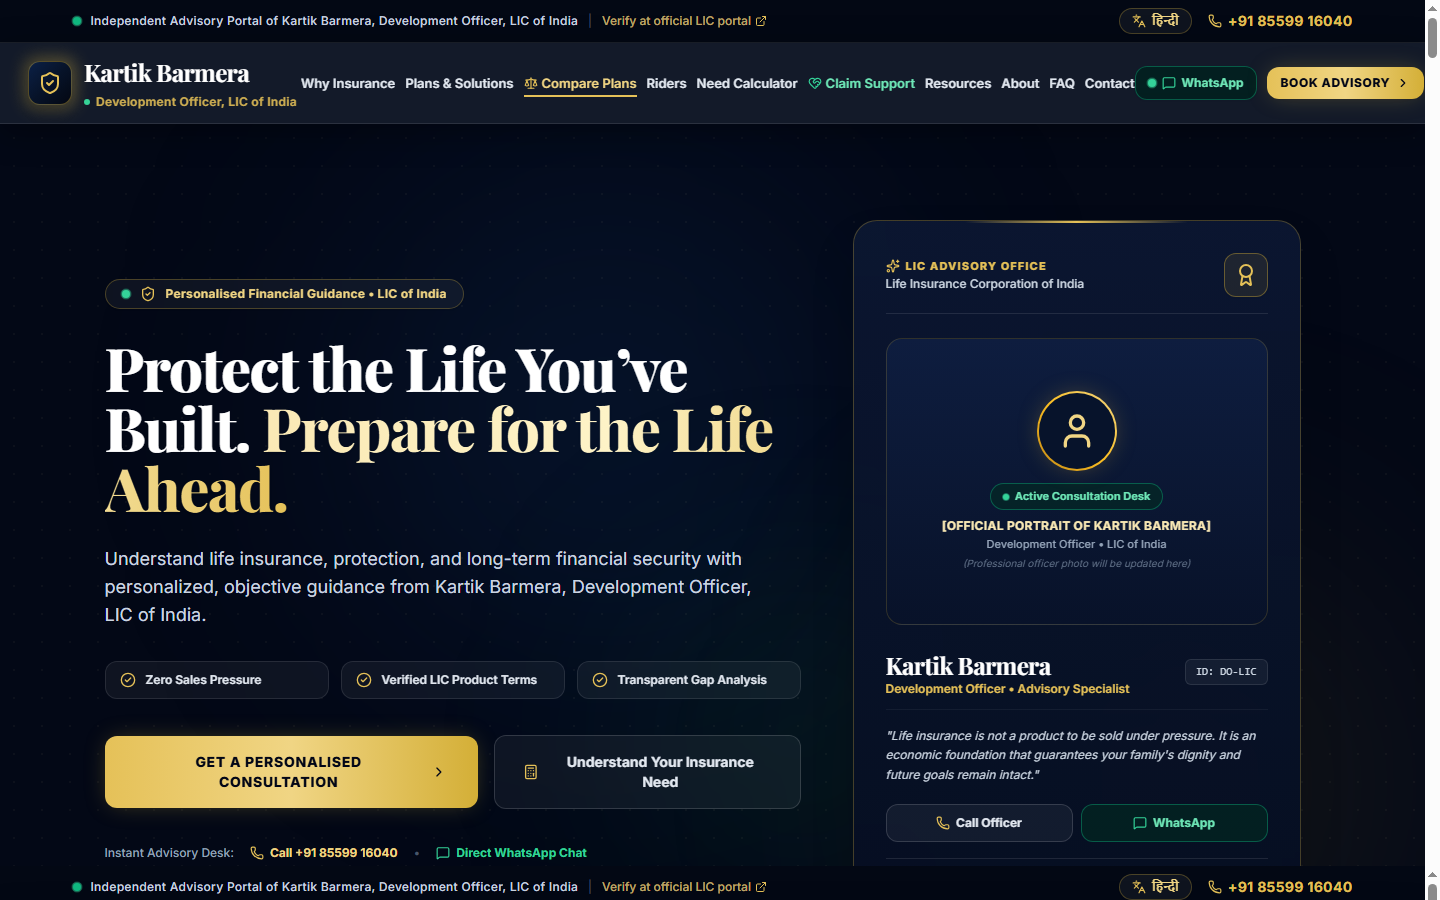
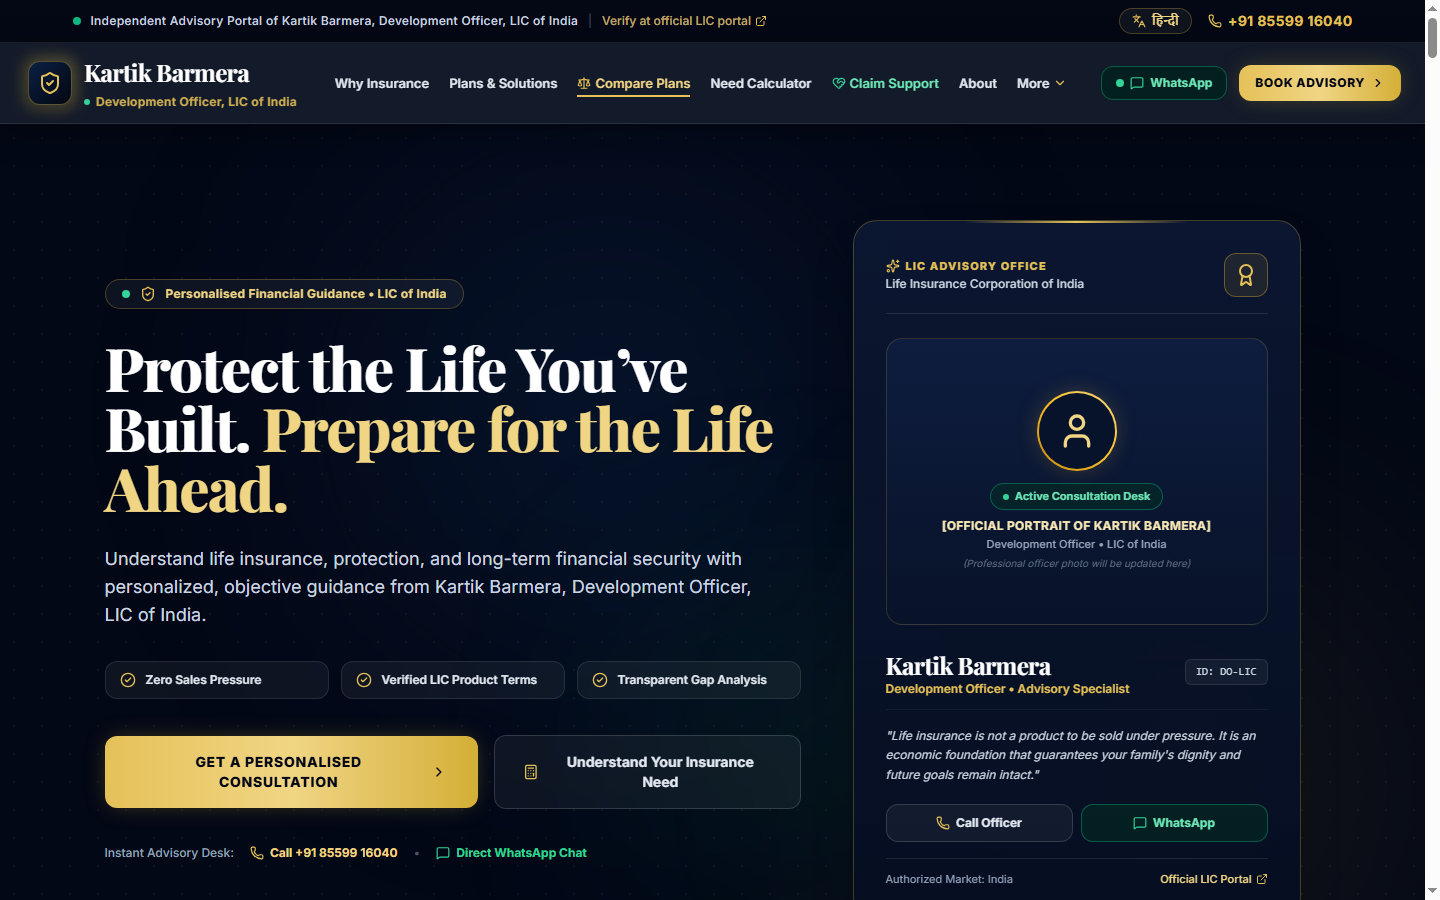
fix(ui): eliminate invisible text dropout via solid gold tokens and resolve header overcrowding via More dropdown

diff --git a/src/components/layout/Header.tsx b/src/components/layout/Header.tsx
@@ -13,10 +13,15 @@ import {
   Menu, 
   X, 
   ChevronRight, 
+  ChevronDown,
   ExternalLink,
   Languages,
   Scale,
-  HeartHandshake
+  HeartHandshake,
+  Layers,
+  BookOpen,
+  HelpCircle,
+  Mail
 } from "lucide-react";
 
 interface HeaderProps {
@@ -128,7 +133,7 @@ export const Header: React.FC<HeaderProps> = ({ onOpenConsultation }) => {
             </Link>
 
             {/* Desktop Navigation Links */}
-            <nav className="hidden xl:flex items-center gap-2.5 2xl:gap-4 text-xs lg:text-[13px] font-semibold text-slate-200">
+            <nav className="hidden lg:flex items-center gap-4 xl:gap-5 text-xs lg:text-[13px] font-semibold text-slate-200">
               <Link href="/why-life-insurance" className="hover:text-gold-300 transition-colors py-1.5 relative group whitespace-nowrap">
                 {t.nav.whyInsurance}
                 <span className="absolute bottom-0 left-0 w-0 h-0.5 bg-gold-400 transition-all duration-300 group-hover:w-full"></span>
@@ -142,10 +147,6 @@ export const Header: React.FC<HeaderProps> = ({ onOpenConsultation }) => {
                 <span>{t.nav.compare}</span>
                 <span className="absolute bottom-0 left-0 w-full h-0.5 bg-gold-400"></span>
               </Link>
-              <Link href="/riders" className="hover:text-gold-300 transition-colors py-1.5 relative group whitespace-nowrap">
-                {t.nav.riders}
-                <span className="absolute bottom-0 left-0 w-0 h-0.5 bg-gold-400 transition-all duration-300 group-hover:w-full"></span>
-              </Link>
               <Link href="/insurance-calculator" className="hover:text-gold-300 transition-colors py-1.5 relative group whitespace-nowrap">
                 {t.nav.calculator}
                 <span className="absolute bottom-0 left-0 w-0 h-0.5 bg-gold-400 transition-all duration-300 group-hover:w-full"></span>
@@ -155,32 +156,77 @@ export const Header: React.FC<HeaderProps> = ({ onOpenConsultation }) => {
                 <span>{t.nav.claimsGuide}</span>
                 <span className="absolute bottom-0 left-0 w-0 h-0.5 bg-emerald-400 transition-all duration-300 group-hover:w-full"></span>
               </Link>
-              <Link href="/resources" className="hover:text-gold-300 transition-colors py-1.5 relative group whitespace-nowrap">
-                {t.nav.resources}
-                <span className="absolute bottom-0 left-0 w-0 h-0.5 bg-gold-400 transition-all duration-300 group-hover:w-full"></span>
-              </Link>
               <Link href="/about" className="hover:text-gold-300 transition-colors py-1.5 relative group whitespace-nowrap">
                 {t.nav.about}
                 <span className="absolute bottom-0 left-0 w-0 h-0.5 bg-gold-400 transition-all duration-300 group-hover:w-full"></span>
               </Link>
-              <Link href="/faq" className="hover:text-gold-300 transition-colors py-1.5 relative group whitespace-nowrap">
-                {t.nav.faq}
-                <span className="absolute bottom-0 left-0 w-0 h-0.5 bg-gold-400 transition-all duration-300 group-hover:w-full"></span>
-              </Link>
-              <Link href="/contact" className="hover:text-gold-300 transition-colors py-1.5 relative group whitespace-nowrap">
-                {t.nav.contact}
-                <span className="absolute bottom-0 left-0 w-0 h-0.5 bg-gold-400 transition-all duration-300 group-hover:w-full"></span>
-              </Link>
+
+              {/* Luxury "More" Dropdown Menu */}
+              <div className="relative group py-2">
+                <button
+                  type="button"
+                  className="inline-flex items-center gap-1 text-slate-200 hover:text-gold-300 transition-colors py-1.5 focus:outline-none"
+                  aria-expanded="false"
+                  aria-haspopup="true"
+                >
+                  <span>{language === "hi" ? "अन्य सेवाएँ" : "More"}</span>
+                  <ChevronDown className="w-3.5 h-3.5 text-gold-400 group-hover:rotate-180 transition-transform duration-200" />
+                </button>
+                <div className="absolute right-0 top-full pt-1.5 hidden group-hover:block group-focus-within:block z-50 animate-in fade-in-50 duration-150">
+                  <div className="w-60 rounded-2xl bg-[#060e1d]/98 backdrop-blur-2xl border border-white/15 p-2 shadow-2xl space-y-1">
+                    <Link 
+                      href="/riders" 
+                      className="flex items-center gap-2.5 px-3 py-2 rounded-xl text-xs font-semibold text-slate-200 hover:text-gold-300 hover:bg-white/5 transition-colors"
+                    >
+                      <Layers className="w-4 h-4 text-gold-400" />
+                      <div>
+                        <span className="block text-white font-bold">{t.nav.riders}</span>
+                        <span className="block text-[10px] text-slate-400 font-normal">Accidental & Critical illness riders</span>
+                      </div>
+                    </Link>
+                    <Link 
+                      href="/resources" 
+                      className="flex items-center gap-2.5 px-3 py-2 rounded-xl text-xs font-semibold text-slate-200 hover:text-gold-300 hover:bg-white/5 transition-colors"
+                    >
+                      <BookOpen className="w-4 h-4 text-gold-400" />
+                      <div>
+                        <span className="block text-white font-bold">{t.nav.resources}</span>
+                        <span className="block text-[10px] text-slate-400 font-normal">Financial protection guides</span>
+                      </div>
+                    </Link>
+                    <Link 
+                      href="/faq" 
+                      className="flex items-center gap-2.5 px-3 py-2 rounded-xl text-xs font-semibold text-slate-200 hover:text-gold-300 hover:bg-white/5 transition-colors"
+                    >
+                      <HelpCircle className="w-4 h-4 text-gold-400" />
+                      <div>
+                        <span className="block text-white font-bold">{t.nav.faq}</span>
+                        <span className="block text-[10px] text-slate-400 font-normal">Common insurance questions</span>
+                      </div>
+                    </Link>
+                    <Link 
+                      href="/contact" 
+                      className="flex items-center gap-2.5 px-3 py-2 rounded-xl text-xs font-semibold text-slate-200 hover:text-gold-300 hover:bg-white/5 transition-colors"
+                    >
+                      <Mail className="w-4 h-4 text-gold-400" />
+                      <div>
+                        <span className="block text-white font-bold">{t.nav.contact}</span>
+                        <span className="block text-[10px] text-slate-400 font-normal">Direct advisory consultation</span>
+                      </div>
+                    </Link>
+                  </div>
+                </div>
+              </div>
             </nav>
 
             {/* Desktop Action CTAs */}
-            <div className="hidden lg:flex items-center gap-2.5 shrink-0">
+            <div className="hidden lg:flex items-center gap-3 shrink-0">
               <a
                 href={buildWhatsAppLink()}
                 target="_blank"
                 rel="noopener noreferrer"
                 onClick={handleWhatsAppClick}
-                className="inline-flex items-center gap-1.5 px-3 py-2 text-xs font-bold text-emerald-300 bg-emerald-950/60 hover:bg-emerald-900/70 border border-emerald-500/40 rounded-xl backdrop-blur-md transition-all shadow-sm hover:shadow whitespace-nowrap"
+                className="inline-flex items-center gap-1.5 px-3.5 py-2 text-xs font-bold text-emerald-300 bg-emerald-950/60 hover:bg-emerald-900/70 border border-emerald-500/40 rounded-xl backdrop-blur-md transition-all shadow-sm hover:shadow whitespace-nowrap"
                 title="Direct WhatsApp with Kartik Barmera"
               >
                 <span className="relative flex h-2 w-2">
@@ -193,7 +239,7 @@ export const Header: React.FC<HeaderProps> = ({ onOpenConsultation }) => {
               <button
                 type="button"
                 onClick={handleConsultationClick}
-                className="inline-flex items-center gap-1.5 px-3.5 py-2 text-xs font-extrabold uppercase tracking-wider text-slate-950 bg-gradient-to-r from-gold-400 via-gold-300 to-gold-500 hover:from-gold-300 hover:to-gold-400 rounded-xl shadow-gold-glow hover:shadow-gold-glow-lg transition-all transform hover:-translate-y-0.5 whitespace-nowrap"
+                className="inline-flex items-center gap-1.5 px-4 py-2.5 text-xs font-extrabold uppercase tracking-wider text-slate-950 bg-gradient-to-r from-gold-400 via-gold-300 to-gold-500 hover:from-gold-300 hover:to-gold-400 rounded-xl shadow-gold-glow hover:shadow-gold-glow-lg transition-all transform hover:-translate-y-0.5 whitespace-nowrap"
               >
                 <span>{language === "hi" ? "सलाह बुक करें" : "Book Advisory"}</span>
                 <ChevronRight className="w-3.5 h-3.5 text-slate-950" />
@@ -201,7 +247,7 @@ export const Header: React.FC<HeaderProps> = ({ onOpenConsultation }) => {
             </div>
 
             {/* Mobile Actions: Phone & Clean Hamburger */}
-            <div className="flex xl:hidden items-center gap-2">
+            <div className="flex lg:hidden items-center gap-2">
               <a
                 href={`tel:+91${advisorData.phone}`}
                 onClick={handlePhoneClick}
@@ -225,7 +271,7 @@ export const Header: React.FC<HeaderProps> = ({ onOpenConsultation }) => {
 
         {/* Mobile Navigation Drawer with Luxury Dark Styling */}
         {mobileMenuOpen && (
-          <div className="xl:hidden border-t border-white/10 bg-[#060e1d]/98 backdrop-blur-2xl px-5 pt-4 pb-8 shadow-2xl animate-in slide-in-from-top duration-200 max-h-[85vh] overflow-y-auto">
+          <div className="lg:hidden border-t border-white/10 bg-[#060e1d]/98 backdrop-blur-2xl px-5 pt-4 pb-8 shadow-2xl animate-in slide-in-from-top duration-200 max-h-[85vh] overflow-y-auto">
             <div className="flex flex-col space-y-2 font-medium text-slate-200 text-base">
               <Link 
                 href="/" 

diff --git a/src/components/calculator/ProtectionCalculator.tsx b/src/components/calculator/ProtectionCalculator.tsx
@@ -66,7 +66,7 @@ export const ProtectionCalculator: React.FC<ProtectionCalculatorProps> = ({
               <span>Capital Needs & Human Life Value (HLV) Engine</span>
             </div>
             <h2 className="font-serif text-2xl sm:text-4xl font-extrabold tracking-tight leading-snug">
-              Calculate Your Family's <span className="text-transparent bg-clip-text bg-gradient-to-r from-gold-200 to-amber-300">Financial Protection Gap</span>
+              Calculate Your Family's <span className="text-gold-300 font-extrabold">Financial Protection Gap</span>
             </h2>
             <p className="text-slate-300 text-xs sm:text-sm mt-2 max-w-2xl font-normal leading-relaxed">
               An institutional estimation tool evaluating how much financial protection capital your dependents would realistically require if your earning capacity ceased today.
@@ -308,7 +308,7 @@ export const ProtectionCalculator: React.FC<ProtectionCalculatorProps> = ({
             {/* Primary Result Headline */}
             <div className="relative z-10">
               <p className="text-xs text-slate-300 font-semibold tracking-wide">Estimated Family Protection Gap</p>
-              <div className="text-3.5xl sm:text-5xl font-serif font-black text-transparent bg-clip-text bg-gradient-to-r from-gold-200 via-amber-100 to-gold-400 mt-1.5 tracking-tight drop-shadow-sm">
+              <div className="text-3.5xl sm:text-5xl font-serif font-black text-gold-300 mt-1.5 tracking-tight drop-shadow-sm">
                 {formatCurrencyINR(result.protectionGap)}
               </div>
               <p className="text-xs text-slate-300 mt-2 leading-relaxed font-normal">

diff --git a/src/components/home/EmotionalStorySection.tsx b/src/components/home/EmotionalStorySection.tsx
@@ -116,7 +116,7 @@ export const EmotionalStorySection: React.FC = () => {
                 The Core Economic Purpose of Life Insurance
               </span>
               <h3 className="font-serif text-2xl sm:text-3xl font-bold tracking-tight text-white leading-snug">
-                Life insurance is designed to create an <span className="text-transparent bg-clip-text bg-gradient-to-r from-gold-200 to-amber-300">unbreakable financial fortress</span> for your family.
+                Life insurance is designed to create an <span className="text-gold-300 font-extrabold underline decoration-gold-400/40 underline-offset-4">unbreakable financial fortress</span> for your family.
               </h3>
               <p className="text-sm text-slate-300 leading-relaxed font-normal">
                 It does not prevent life's uncertainties, but it guarantees that your spouse, children, and parents will never have to compromise their home, their education, or their dignity because of unpaid debts or missing paychecks.

diff --git a/scripts/find-bg-clip.js b/scripts/find-bg-clip.js
@@ -1,0 +1,23 @@
+const fs = require('fs');
+const path = require('path');
+
+function searchDir(dir, pattern) {
+  const files = fs.readdirSync(dir);
+  for (const f of files) {
+    const full = path.join(dir, f);
+    const stat = fs.statSync(full);
+    if (stat.isDirectory()) {
+      if (f !== 'node_modules' && f !== '.next') searchDir(full, pattern);
+    } else if (f.endsWith('.tsx') || f.endsWith('.ts') || f.endsWith('.css')) {
+      const content = fs.readFileSync(full, 'utf8');
+      if (content.includes(pattern)) {
+        console.log(full);
+        content.split('\n').forEach((line, i) => {
+          if (line.includes(pattern)) console.log(`  Line ${i+1}: ${line.trim()}`);
+        });
+      }
+    }
+  }
+}
+
+searchDir('src', 'bg-clip-text');

diff --git a/src/components/home/HeroSection.tsx b/src/components/home/HeroSection.tsx
@@ -63,7 +63,7 @@ export const HeroSection: React.FC<HeroSectionProps> = ({
             {/* Main Headline */}
             <h1 className="font-serif text-3.5xl sm:text-5xl lg:text-6xl font-extrabold tracking-tight leading-[1.12]">
               {t.hero.titleStart}{" "}
-              <span className="block mt-1 sm:inline text-transparent bg-clip-text bg-gradient-to-r from-gold-200 via-amber-100 to-gold-400 drop-shadow-sm">
+              <span className="block mt-1 sm:inline text-gold-300 drop-shadow-sm">
                 {t.hero.titleHighlight}
               </span>
             </h1>

diff --git a/scripts/capture-screenshots.js b/scripts/capture-screenshots.js
@@ -10,8 +10,7 @@ if (!fs.existsSync(outDir)) {
 }
 
 const shots = [
-  { name: 'desktop-hero.png', size: '1440,900', url: 'http://localhost:3000' },
-  { name: 'mobile-hero.png', size: '390,844', url: 'http://localhost:3000' }
+  { name: 'desktop-1366-story.png', size: '1366,2800', url: 'http://localhost:3000' }
 ];
 
 for (const s of shots) {
